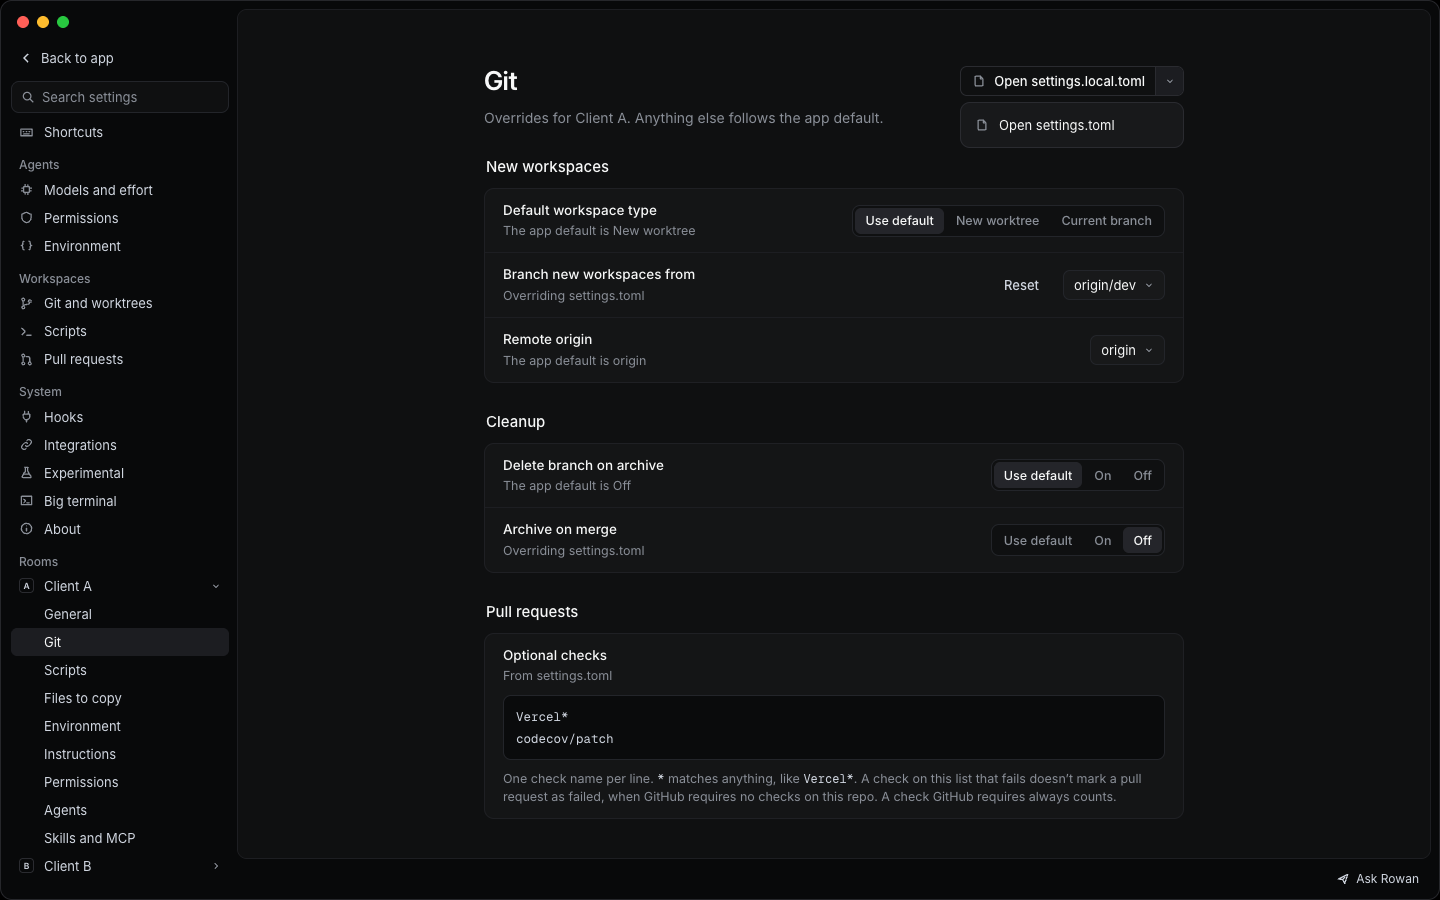
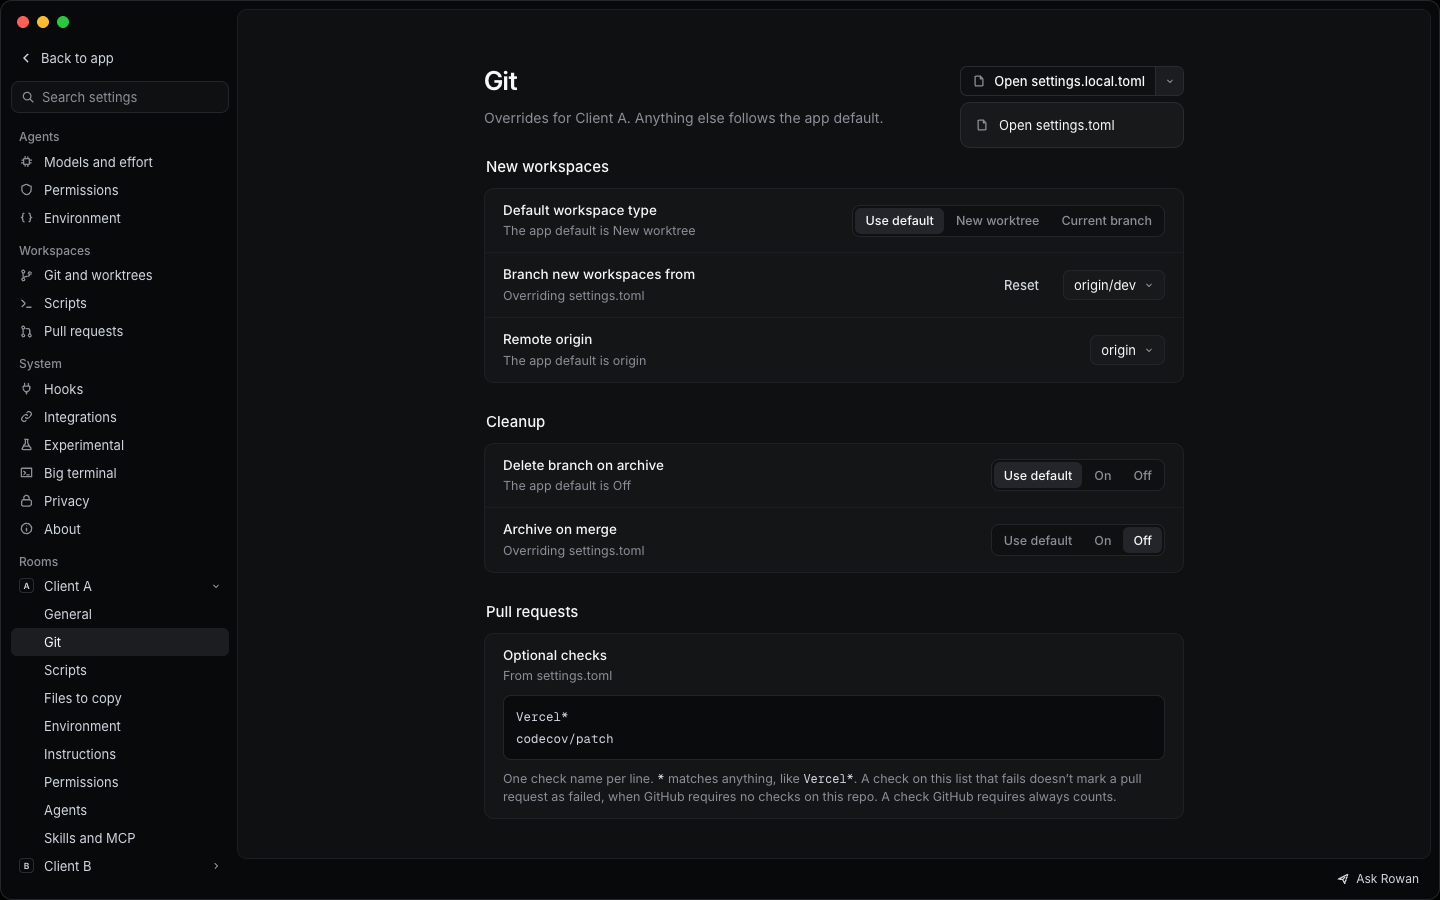
design: rebuild the Settings pages after the rebase (KERNEL-397)
Main's Settings, Pull requests and room Git pages changed during the
rebase. They are rebuilt from the template and redrawn with the
Privacy entry in the nav.

Changed region(s): [[0.0, 0.1244, 0.0938, 0.56]]

diff --git a/design/canvas/project/SettingsPrivacy.dc.html b/design/canvas/project/SettingsPrivacy.dc.html
@@ -299,7 +299,7 @@ class Component extends DCLogic {
         { title: 'Automation', rows: [tog('autosetup', 'Run setup when a workspace is created', true, 'New workspaces are ready before the first message'), tog('autorun', 'Start the run script after setup', false, 'Each workspace gets its own port'), tog('autoarchive', 'Run archive script on archive', true)] }
       ] },
       prs: { title: 'Pull requests', intro: 'How pull requests are merged, and the default instructions agents get. Each room can override the instructions on its own Instructions page.', sections: [
-        { title: 'Merging', rows: [seg('merge', 'Merge method', ['Squash', 'Merge', 'Rebase']), tog('draft', 'Open as draft', false), tog('green', 'Require green checks to merge', true), tog('revok', 'Require Reviewer approval', true), tog('leadmerge', 'Let the Lead merge when you ask', false, 'The Lead merges only when your own message asks. Each merge still needs passing checks and any reviewer\'s approval.')] },
+        { title: 'Merging', rows: [seg('merge', 'Merge method', ['Squash', 'Merge', 'Rebase']), tog('draft', 'Open as draft', false), tog('green', 'Require green checks to merge', true), tog('autoreview', 'Review every pull request automatically', true, 'The Lead hands each PR that passes checks to the reviewer. Off saves usage, and you can still ask for a review.'), tog('revok', 'Wait for the reviewer\'s approval to merge, when a review ran', true), tog('leadmerge', 'Let the Lead merge when you ask', false, 'The Lead merges only when your own message asks. Each merge still needs passing checks and any reviewer\'s approval.')] },
         { title: 'Instructions', rows: [code('Create PR', ['# Create a pull request', '1. Rebase on origin/main and run pnpm test', '2. Title it as a Conventional Commit', '3. Fill in summary, scope and risk'], 'Sent to the agent when you press Create PR'), code('Resolve conflicts', ['# Resolve conflicts', '1. Rebase on origin/main', '2. Re-run pnpm test and pnpm typecheck'], 'Sent when you press Resolve conflicts'), code('Fix checks', ['# Fix failing checks', '1. Read the failing job log', '2. Fix the cause, not the test', '3. Push and wait for the checks'], 'Sent when you press Fix checks'), code('Address review', ['# Address review comments', '1. Read every open thread', '2. Change the code or reply with a reason', '3. Push and resolve the threads'], 'Sent when you press Address review')] }
       ] },
       hooks: { title: 'Hooks', sections: [
@@ -352,6 +352,10 @@ class Component extends DCLogic {
         { title: 'Cleanup', rows: [
           seg('rg-delbranch', 'Delete branch on archive', ['Use default', 'On', 'Off'], 0, 'The app default is Off'),
           Object.assign(seg('rg-archmerge', 'Archive on merge', ['Use default', 'On', 'Off'], 2), { source: 'Overriding settings.toml' })
+        ] },
+        // KERNEL-401: checks this room never counts, when GitHub requires none on the repo.
+        { title: 'Pull requests', rows: [
+          Object.assign(from(code('Optional checks', ['Vercel*', 'codecov/patch'])), { hint: [['One check name per line. ', 0], ['*', 1], [' matches anything, like ', 0], ['Vercel*', 1], ['. A check on this list that fails doesn\u2019t mark a pull request as failed, when GitHub requires no checks on this repo. A check GitHub requires always counts.', 0]] })
         ] }
       ]),
       'r-scripts': roomPage('Scripts', 'Scripts for Client A. A change here is saved in settings.local.toml, so it stays on your Mac.', [

diff --git a/design/canvas/project/SettingsPRs.dc.html b/design/canvas/project/SettingsPRs.dc.html
@@ -299,7 +299,7 @@ class Component extends DCLogic {
         { title: 'Automation', rows: [tog('autosetup', 'Run setup when a workspace is created', true, 'New workspaces are ready before the first message'), tog('autorun', 'Start the run script after setup', false, 'Each workspace gets its own port'), tog('autoarchive', 'Run archive script on archive', true)] }
       ] },
       prs: { title: 'Pull requests', intro: 'How pull requests are merged, and the default instructions agents get. Each room can override the instructions on its own Instructions page.', sections: [
-        { title: 'Merging', rows: [seg('merge', 'Merge method', ['Squash', 'Merge', 'Rebase']), tog('draft', 'Open as draft', false), tog('green', 'Require green checks to merge', true), tog('revok', 'Require Reviewer approval', true), tog('leadmerge', 'Let the Lead merge when you ask', false, 'The Lead merges only when your own message asks. Each merge still needs passing checks and any reviewer\'s approval.')] },
+        { title: 'Merging', rows: [seg('merge', 'Merge method', ['Squash', 'Merge', 'Rebase']), tog('draft', 'Open as draft', false), tog('green', 'Require green checks to merge', true), tog('autoreview', 'Review every pull request automatically', true, 'The Lead hands each PR that passes checks to the reviewer. Off saves usage, and you can still ask for a review.'), tog('revok', 'Wait for the reviewer\'s approval to merge, when a review ran', true), tog('leadmerge', 'Let the Lead merge when you ask', false, 'The Lead merges only when your own message asks. Each merge still needs passing checks and any reviewer\'s approval.')] },
         { title: 'Instructions', rows: [code('Create PR', ['# Create a pull request', '1. Rebase on origin/main and run pnpm test', '2. Title it as a Conventional Commit', '3. Fill in summary, scope and risk'], 'Sent to the agent when you press Create PR'), code('Resolve conflicts', ['# Resolve conflicts', '1. Rebase on origin/main', '2. Re-run pnpm test and pnpm typecheck'], 'Sent when you press Resolve conflicts'), code('Fix checks', ['# Fix failing checks', '1. Read the failing job log', '2. Fix the cause, not the test', '3. Push and wait for the checks'], 'Sent when you press Fix checks'), code('Address review', ['# Address review comments', '1. Read every open thread', '2. Change the code or reply with a reason', '3. Push and resolve the threads'], 'Sent when you press Address review')] }
       ] },
       hooks: { title: 'Hooks', sections: [
